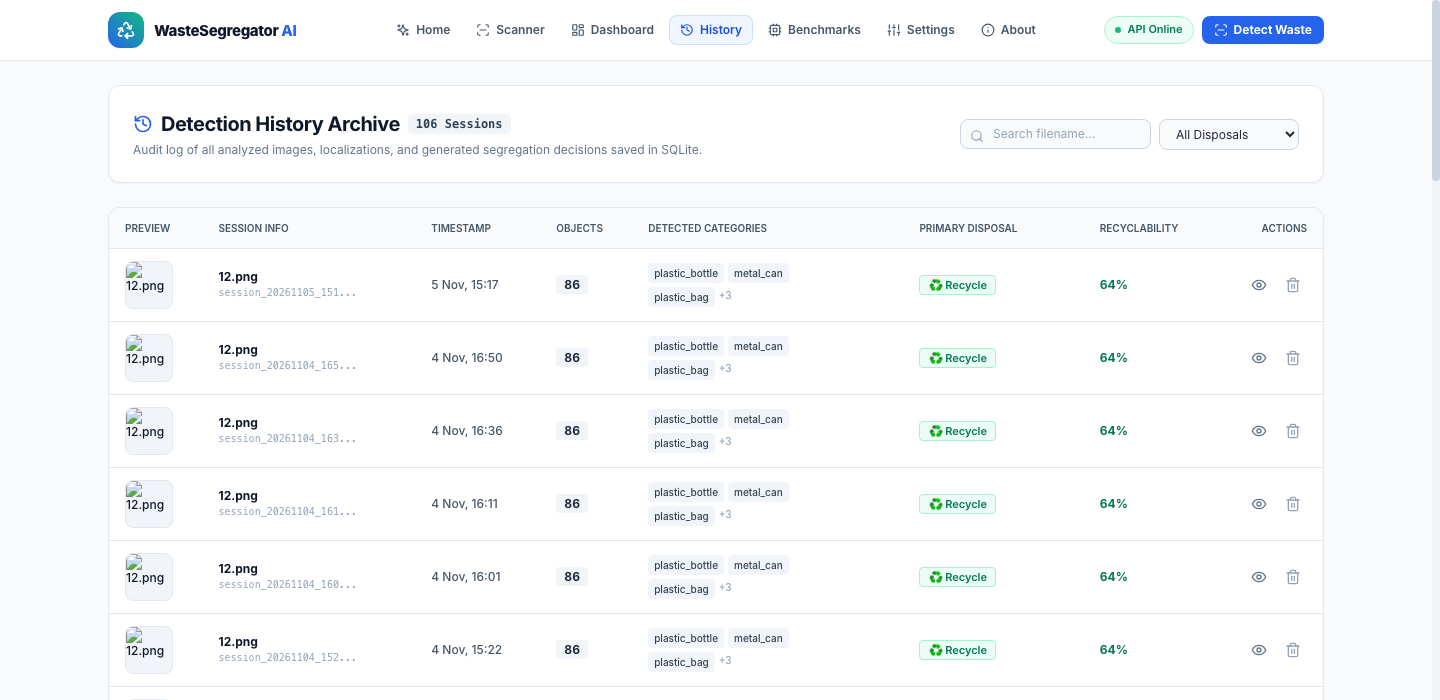
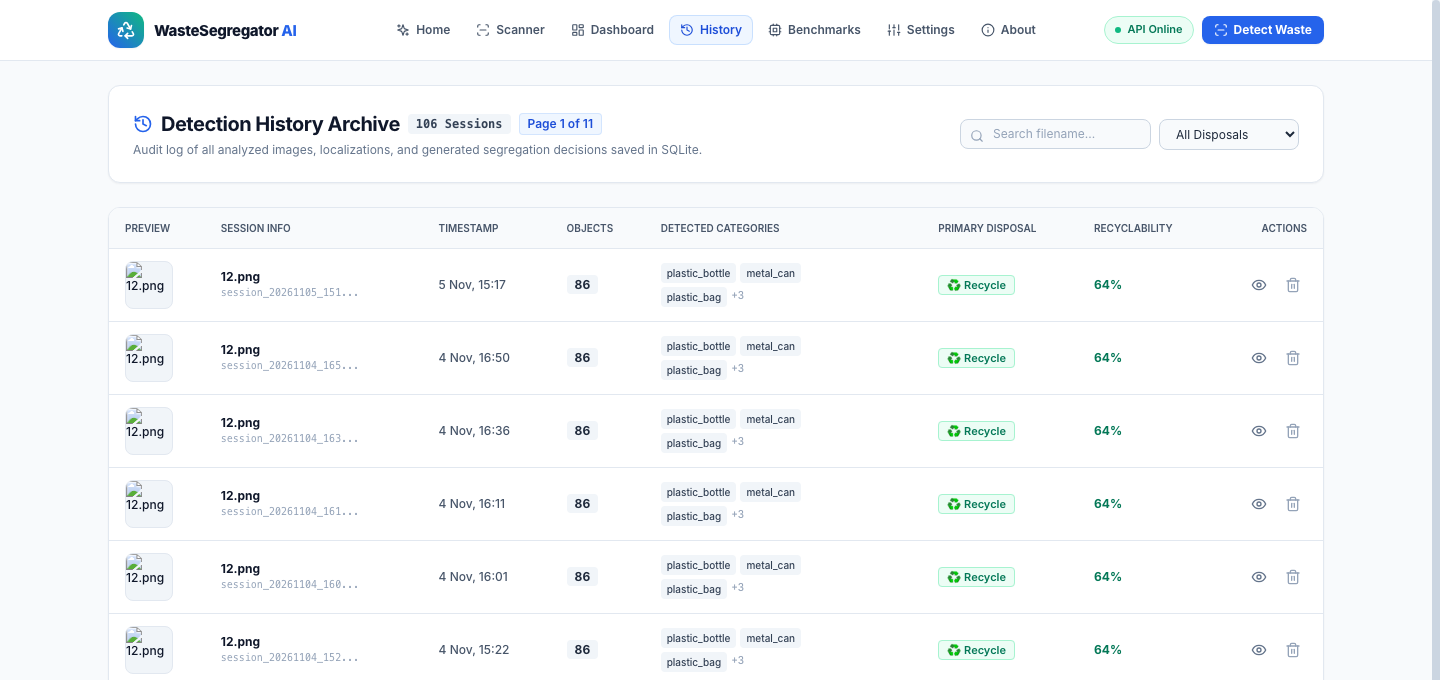
feat(history): add paginated detection archive (10-15 per page) with page navigation controls

diff --git a/frontend/src/pages/HistoryPage.jsx b/frontend/src/pages/HistoryPage.jsx
@@ -1,7 +1,7 @@
 /**
  * Detection History Page
  * AI-Based Smart Garbage Waste Segregator
- * Full session history and details backed by SQLite persistence.
+ * Full session history and details backed by SQLite persistence with pagination.
  */
 import React, { useState, useEffect } from 'react';
 import { useNavigate } from 'react-router-dom';
@@ -17,7 +17,11 @@ import {
   ArrowRight,
   X,
   ShieldAlert,
-  Clock
+  Clock,
+  ChevronLeft,
+  ChevronRight,
+  ChevronsLeft,
+  ChevronsRight
 } from 'lucide-react';
 import {
   getHistory,
@@ -34,6 +38,10 @@ const HistoryPage = () => {
   const [totalCount, setTotalCount] = useState(0);
   const [loading, setLoading] = useState(true);
 
+  // Pagination State (Defaults to 10 items per page; toggleable to 15)
+  const [currentPage, setCurrentPage] = useState(1);
+  const [pageSize, setPageSize] = useState(10);
+
   // Filters
   const [search, setSearch] = useState('');
   const [disposalFilter, setDisposalFilter] = useState('');
@@ -43,9 +51,10 @@ const HistoryPage = () => {
   const [sessionDetail, setSessionDetail] = useState(null);
   const [detailLoading, setDetailLoading] = useState(false);
 
-  const fetchHistoryList = () => {
+  const fetchHistoryList = (page = currentPage, limit = pageSize) => {
     setLoading(true);
-    getHistory({ search, disposal: disposalFilter || undefined, limit: 50 })
+    const offset = (page - 1) * limit;
+    getHistory({ search, disposal: disposalFilter || undefined, limit, offset })
       .then((res) => {
         setHistory(res.history || []);
         setTotalCount(res.total || 0);
@@ -55,12 +64,59 @@ const HistoryPage = () => {
   };
 
   useEffect(() => {
-    fetchHistoryList();
+    setCurrentPage(1);
+    fetchHistoryList(1, pageSize);
   }, [disposalFilter]);
 
   const handleSearchSubmit = (e) => {
     e.preventDefault();
-    fetchHistoryList();
+    setCurrentPage(1);
+    fetchHistoryList(1, pageSize);
+  };
+
+  const handlePageSizeChange = (newSize) => {
+    setPageSize(newSize);
+    setCurrentPage(1);
+    fetchHistoryList(1, newSize);
+  };
+
+  const totalPages = Math.max(1, Math.ceil(totalCount / pageSize));
+  const startEntry = totalCount === 0 ? 0 : (currentPage - 1) * pageSize + 1;
+  const endEntry = Math.min(currentPage * pageSize, totalCount);
+
+  const goToPage = (page) => {
+    if (page < 1 || page > totalPages || page === currentPage) return;
+    setCurrentPage(page);
+    fetchHistoryList(page, pageSize);
+    // Smooth scroll to top of table
+    window.scrollTo({ top: 120, behavior: 'smooth' });
+  };
+
+  const getPaginationRange = () => {
+    const delta = 1;
+    const range = [];
+    const rangeWithDots = [];
+    let l;
+
+    for (let i = 1; i <= totalPages; i++) {
+      if (i === 1 || i === totalPages || (i >= currentPage - delta && i <= currentPage + delta)) {
+        range.push(i);
+      }
+    }
+
+    for (let i of range) {
+      if (l) {
+        if (i - l === 2) {
+          rangeWithDots.push(l + 1);
+        } else if (i - l !== 1) {
+          rangeWithDots.push('...');
+        }
+      }
+      rangeWithDots.push(i);
+      l = i;
+    }
+
+    return rangeWithDots;
   };
 
   const handleDelete = async (e, sessionId) => {
@@ -73,7 +129,14 @@ const HistoryPage = () => {
         setActiveSessionId(null);
         setSessionDetail(null);
       }
-      fetchHistoryList();
+      const remainingOnPage = history.length - 1;
+      const targetPage = remainingOnPage === 0 && currentPage > 1 ? currentPage - 1 : currentPage;
+      if (targetPage !== currentPage) {
+        setCurrentPage(targetPage);
+        fetchHistoryList(targetPage, pageSize);
+      } else {
+        fetchHistoryList(currentPage, pageSize);
+      }
     } catch (err) {
       alert('Delete failed: ' + err.message);
     }
@@ -103,6 +166,11 @@ const HistoryPage = () => {
             <span className="text-xs px-2 py-0.5 bg-slate-100 text-slate-700 font-mono font-semibold rounded">
               {totalCount} Sessions
             </span>
+            {totalPages > 1 && (
+              <span className="text-xs px-2 py-0.5 bg-blue-50 text-blue-700 font-semibold rounded border border-blue-200/60">
+                Page {currentPage} of {totalPages}
+              </span>
+            )}
           </div>
           <p className="text-xs text-slate-500">
             Audit log of all analyzed images, localizations, and generated segregation decisions saved in SQLite.
@@ -125,7 +193,7 @@ const HistoryPage = () => {
           <select
             value={disposalFilter}
             onChange={(e) => setDisposalFilter(e.target.value)}
-            className="text-xs py-1.5 px-3 bg-slate-50 border border-slate-300 rounded-lg text-slate-800 focus:outline-none focus:ring-1 focus:ring-blue-600"
+            className="text-xs py-1.5 px-3 bg-slate-50 border border-slate-300 rounded-lg text-slate-800 focus:outline-none focus:ring-1 focus:ring-blue-600 cursor-pointer"
           >
             <option value="">All Disposals</option>
             <option value="Recycle">Recycle</option>
@@ -158,7 +226,7 @@ const HistoryPage = () => {
             </p>
             <button
               onClick={() => navigate('/detect')}
-              className="px-4 py-2 bg-blue-600 hover:bg-blue-700 text-white rounded-lg text-xs font-semibold shadow-xs inline-flex items-center gap-1.5 transition-colors"
+              className="px-4 py-2 bg-blue-600 hover:bg-blue-700 text-white rounded-lg text-xs font-semibold shadow-xs inline-flex items-center gap-1.5 transition-colors cursor-pointer"
             >
               <span>Go to Detection Workspace</span>
               <ArrowRight className="w-3.5 h-3.5" />
@@ -294,6 +362,122 @@ const HistoryPage = () => {
               </tbody>
             </table>
           </div>
+
+          {/* Pagination Footer (Shows 10 to 15 per page with page navigation buttons) */}
+          <div className="bg-slate-50/90 border-t border-slate-200 px-4 py-3.5 flex flex-col sm:flex-row items-center justify-between gap-3 text-xs text-slate-600">
+            {/* Left: Summary & Per-Page Selector */}
+            <div className="flex flex-wrap items-center gap-3">
+              <span>
+                Showing <strong className="font-bold text-slate-900">{startEntry}</strong>–
+                <strong className="font-bold text-slate-900">{endEntry}</strong> of{' '}
+                <strong className="font-bold text-slate-900">{totalCount}</strong> sessions
+              </span>
+              <div className="flex items-center gap-1.5 text-slate-500">
+                <span>•</span>
+                <span>Show</span>
+                <select
+                  value={pageSize}
+                  onChange={(e) => handlePageSizeChange(Number(e.target.value))}
+                  className="py-1 px-2 bg-white border border-slate-300 rounded-md text-slate-800 text-xs font-semibold focus:outline-none focus:ring-1 focus:ring-blue-600 cursor-pointer shadow-2xs"
+                >
+                  <option value={10}>10</option>
+                  <option value={15}>15</option>
+                  <option value={20}>20</option>
+                </select>
+                <span>per page</span>
+              </div>
+            </div>
+
+            {/* Right: Page Navigation Controls */}
+            {totalPages > 1 && (
+              <div className="flex items-center gap-1">
+                {/* First Page Button */}
+                <button
+                  onClick={() => goToPage(1)}
+                  disabled={currentPage === 1}
+                  className={`p-1.5 rounded-lg border text-xs font-medium transition-all ${
+                    currentPage === 1
+                      ? 'border-slate-200 text-slate-300 cursor-not-allowed bg-slate-50'
+                      : 'border-slate-200 bg-white text-slate-600 hover:bg-slate-100 active:scale-95 cursor-pointer shadow-2xs'
+                  }`}
+                  title="First page"
+                >
+                  <ChevronsLeft className="w-3.5 h-3.5" />
+                </button>
+
+                {/* Previous Page Button */}
+                <button
+                  onClick={() => goToPage(currentPage - 1)}
+                  disabled={currentPage === 1}
+                  className={`px-2.5 py-1.5 rounded-lg border text-xs font-semibold flex items-center gap-1 transition-all ${
+                    currentPage === 1
+                      ? 'border-slate-200 text-slate-300 cursor-not-allowed bg-slate-50'
+                      : 'border-slate-200 bg-white text-slate-700 hover:bg-slate-100 active:scale-95 cursor-pointer shadow-2xs'
+                  }`}
+                  title="Previous page"
+                >
+                  <ChevronLeft className="w-3.5 h-3.5" />
+                  <span className="hidden sm:inline">Prev</span>
+                </button>
+
+                {/* Page Number Buttons */}
+                <div className="flex items-center gap-1">
+                  {getPaginationRange().map((p, idx) => {
+                    if (p === '...') {
+                      return (
+                        <span key={`dots-${idx}`} className="px-1.5 text-slate-400 select-none font-semibold">
+                          …
+                        </span>
+                      );
+                    }
+                    const isCurrent = p === currentPage;
+                    return (
+                      <button
+                        key={p}
+                        onClick={() => goToPage(p)}
+                        className={`min-w-[30px] h-7 px-2 rounded-lg text-xs font-semibold transition-all border ${
+                          isCurrent
+                            ? 'bg-blue-600 text-white font-bold border-blue-600 shadow-xs'
+                            : 'bg-white border-slate-200 text-slate-700 hover:bg-slate-100 hover:border-slate-300 cursor-pointer'
+                        }`}
+                      >
+                        {p}
+                      </button>
+                    );
+                  })}
+                </div>
+
+                {/* Next Page Button */}
+                <button
+                  onClick={() => goToPage(currentPage + 1)}
+                  disabled={currentPage === totalPages}
+                  className={`px-2.5 py-1.5 rounded-lg border text-xs font-semibold flex items-center gap-1 transition-all ${
+                    currentPage === totalPages
+                      ? 'border-slate-200 text-slate-300 cursor-not-allowed bg-slate-50'
+                      : 'border-slate-200 bg-white text-slate-700 hover:bg-slate-100 active:scale-95 cursor-pointer shadow-2xs'
+                  }`}
+                  title="Next page"
+                >
+                  <span className="hidden sm:inline">Next</span>
+                  <ChevronRight className="w-3.5 h-3.5" />
+                </button>
+
+                {/* Last Page Button */}
+                <button
+                  onClick={() => goToPage(totalPages)}
+                  disabled={currentPage === totalPages}
+                  className={`p-1.5 rounded-lg border text-xs font-medium transition-all ${
+                    currentPage === totalPages
+                      ? 'border-slate-200 text-slate-300 cursor-not-allowed bg-slate-50'
+                      : 'border-slate-200 bg-white text-slate-600 hover:bg-slate-100 active:scale-95 cursor-pointer shadow-2xs'
+                  }`}
+                  title="Last page"
+                >
+                  <ChevronsRight className="w-3.5 h-3.5" />
+                </button>
+              </div>
+            )}
+          </div>
         </div>
       )}
 
@@ -322,7 +506,7 @@ const HistoryPage = () => {
                   setActiveSessionId(null);
                   setSessionDetail(null);
                 }}
-                className="p-1 text-slate-400 hover:text-slate-600 rounded-lg hover:bg-slate-100"
+                className="p-1 text-slate-400 hover:text-slate-600 rounded-lg hover:bg-slate-100 cursor-pointer"
               >
                 <X className="w-5 h-5" />
               </button>
@@ -430,4 +614,3 @@ const HistoryPage = () => {
 };
 
 export default HistoryPage;
-
